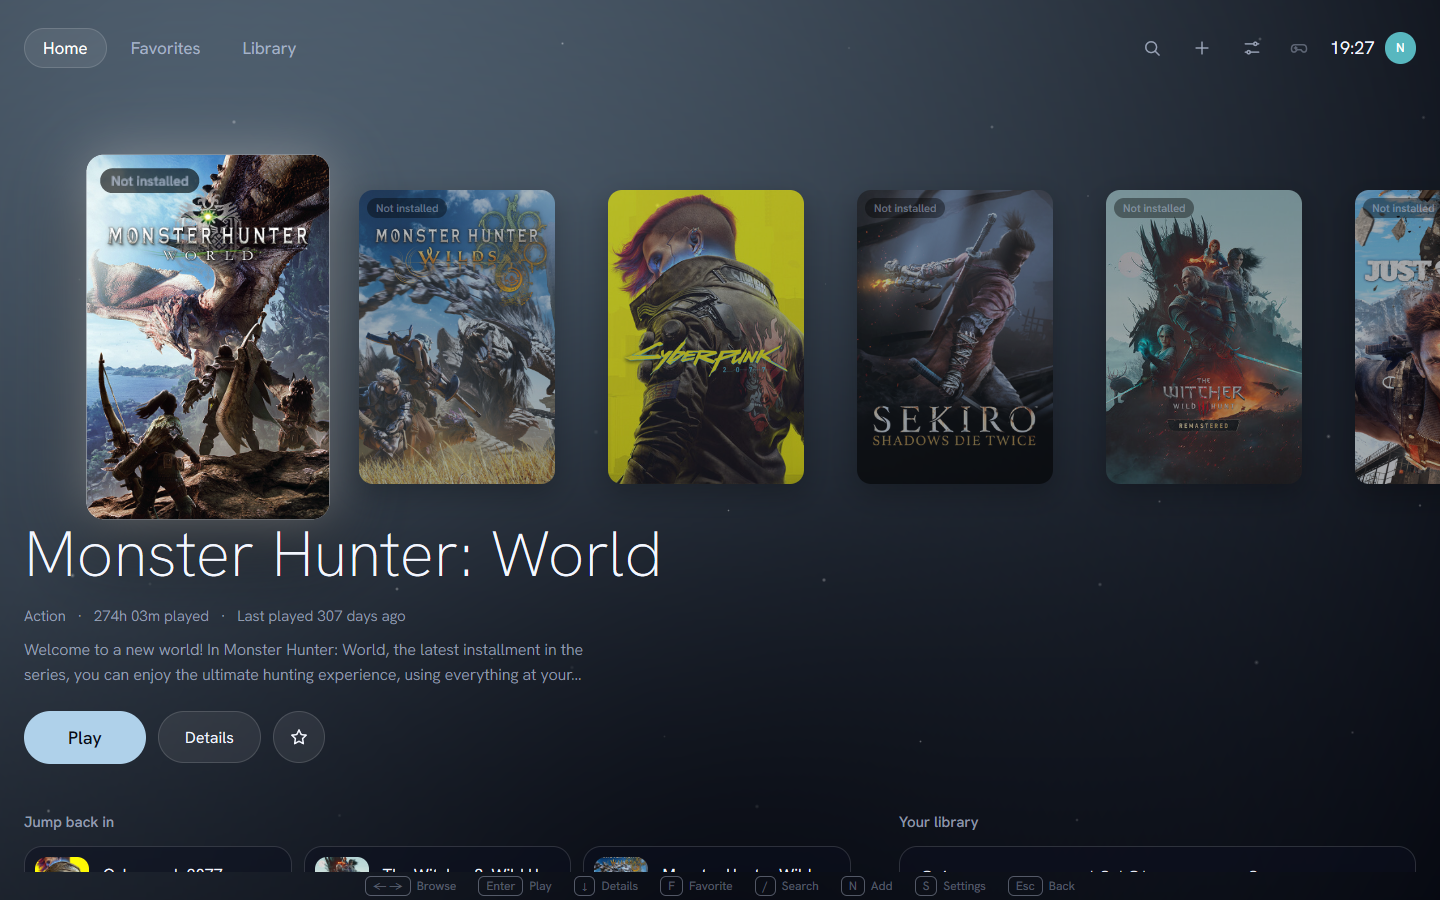
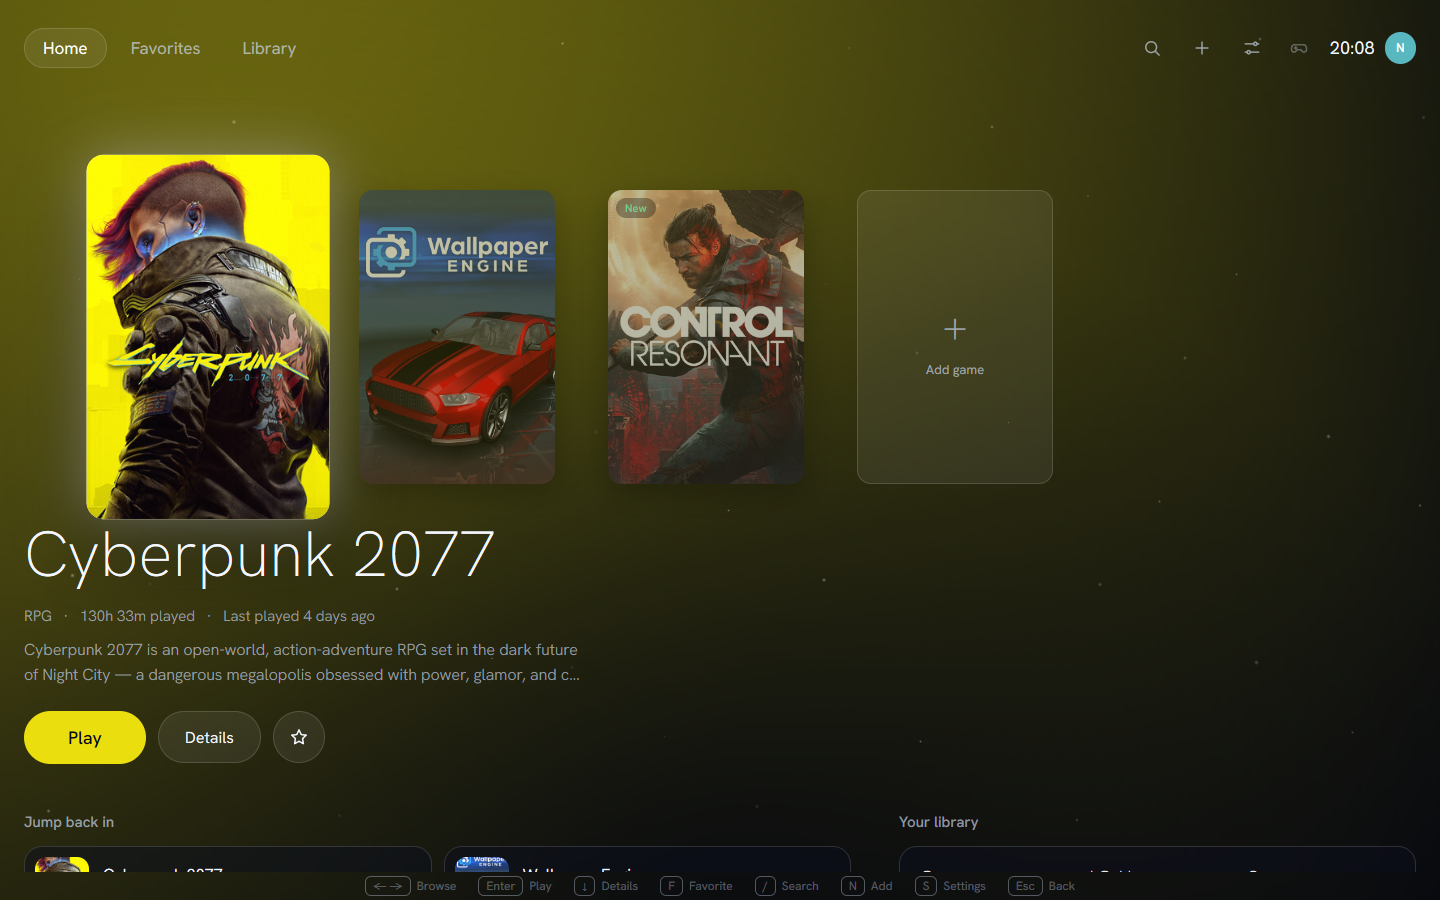
Landing page for GitHub Pages
docs/index.html: a single self-contained page in the app's own design
system (DESIGN.md tokens, Hanken Grotesk, glass on the deep ground),
with the four real product screenshots. home.png is re-rendered with
installed games only, so the hero matches the pitch.

diff --git a/docs/index.html b/docs/index.html
@@ -1,0 +1,307 @@
+<!doctype html>
+<html lang="en">
+<head>
+<meta charset="utf-8">
+<meta name="viewport" content="width=device-width,initial-scale=1">
+<title>Nova, a native Windows game launcher</title>
+<meta name="description" content="Nova lists the games installed on your machine, pulls real Steam artwork, and starts the game. Built in Go on MyGo, no web view.">
+<style>
+/* Hallmark · v2.0.0
+ * shape: try-job landing · genre: try (desktop tool) · job: visit the repo · posture: stage
+ * theme: Nova design system (DESIGN.md, by request) · surface: absolute (system glass on --deep)
+ * nav: edge-aligned, wordmark left, links and one action right · footer: colophon
+ * hero: Stage, text 4 cols, the real home screen on 8 cols
+ * signature: the launcher's own captured screens, framed in the system's glass
+ * sections: Hero · Showcase · Rows · Table · Band · Footer
+ * material: real: four product screenshots · absent: quotes, logos, metrics
+ * pre-emit critique: P4 H4 E4 S4 R4 V4 · weakest: S, a launcher landing is a known shape; led with the app's own captured screens instead of a built mock
+ * dismissed 58 · the keys table plus the band head share one 900px window; a key reference is dense by nature, every row is a fact
+ * sweep: 0 FAIL · 1 dismissed
+ * hero-review: none · finish-review: subagent · 5 findings · 5 resolved · gap: none
+ */
+:root{
+  --deep:#05070f;
+  --well:#0a0e1c;
+  --ink:#f4f7ff;
+  --ink-dim:#b9c4e2;
+  --ink-faint:#8b96b8;
+  --rule:rgba(220,230,255,.14);
+  --glass:rgba(255,255,255,.07);
+  --glass-hover:rgba(255,255,255,.14);
+  --bright:#f6f8ff;
+  --bright-ink:#080c1a;
+  --accent:#5b8dff;
+  --focus:#f4f7ff;
+  --font:"Hanken Grotesk","Segoe UI",system-ui,sans-serif;
+
+  --container:1360px;
+  --gutter:64px;
+  --space-xs:8px;
+  --space-sm:12px;
+  --space-md:16px;
+  --space-lg:24px;
+  --space-xl:40px;
+  --space-2xl:64px;
+  --space-3xl:96px;
+  --space-4xl:144px;
+  --section-a:176px;
+  --section-b:120px;
+  --section-c:144px;
+
+  --radius-frame:20px;
+  --radius-pill:999px;
+  --dur-short:220ms;
+  --dur-long:420ms;
+  --ease-out:cubic-bezier(.22,1,.36,1);
+}
+*{box-sizing:border-box}
+html,body{overflow-x:clip}
+html{scrollbar-color:var(--ink-faint) var(--deep)}
+body{
+  margin:0;
+  background:var(--deep);
+  color:var(--ink);
+  font-family:var(--font);
+  font-weight:300;
+  font-size:17px;
+  line-height:1.6;
+  -webkit-font-smoothing:antialiased;
+}
+::selection{background:var(--accent);color:var(--bright-ink)}
+h1,h2,h3{font-weight:200;text-wrap:balance}
+.row h3,.footer .wordmark,.wordmark{font-weight:400}
+p{text-wrap:pretty}
+a{color:var(--ink)}
+:focus-visible{outline:2px solid var(--focus);outline-offset:3px;border-radius:8px}
+
+.container{max-width:var(--container);margin-inline:auto;padding-inline:var(--gutter)}
+
+/* nav: edge-aligned */
+.nav{display:flex;align-items:center;justify-content:space-between;gap:var(--space-lg);
+  min-height:80px;padding-block:var(--space-md)}
+.wordmark{font-size:20px;text-decoration:none;letter-spacing:0}
+.nav-links{display:flex;align-items:center;gap:var(--space-lg)}
+.nav-links a{font-size:15px;font-weight:300;color:var(--ink-dim);text-decoration:none;white-space:nowrap}
+.nav-links a:hover{color:var(--ink)}
+.nav-links a.nav-cta{color:var(--ink);background:var(--glass);box-shadow:inset 0 0 0 1px var(--rule);padding:var(--space-xs) var(--space-lg);border-radius:var(--radius-pill)}
+.nav-links a.nav-cta:hover{transform:translateY(-1px)}
+.nav-links a.nav-cta:active,.btn:active{transform:translateY(1px)}
+
+/* buttons: one primary recipe, one glass recipe */
+.btn{display:inline-flex;align-items:center;gap:var(--space-sm);text-decoration:none;white-space:nowrap;
+  font-size:16px;border-radius:var(--radius-pill);padding:var(--space-sm) 36px;
+  transition:transform var(--dur-short) var(--ease-out),background var(--dur-short) var(--ease-out)}
+.btn.primary{background:var(--bright);color:var(--bright-ink)}
+.btn.primary:hover,.btn.primary:focus-visible{transform:scale(1.03)}
+.btn.ghost{background:var(--glass);color:var(--ink);box-shadow:inset 0 0 0 1px var(--rule)}
+.btn.ghost:hover{background:var(--glass-hover)}
+.ghost-link{font-size:16px;font-weight:400;color:var(--ink-dim);text-decoration:underline;text-underline-offset:4px}
+.ghost-link:hover{color:var(--ink)}
+
+/* hero: stage */
+.hero{min-height:calc(100svh - 80px);display:grid;align-content:center;
+  padding-block:var(--space-2xl)}
+.hero-grid{display:grid;grid-template-columns:minmax(0,4fr) minmax(0,8fr);
+  gap:var(--space-3xl);align-items:center}
+.hero .slot img{display:block;width:100%;height:auto}
+.hero h1{margin:0 0 var(--space-lg);font-size:clamp(44px,6vw,84px);line-height:1.05;letter-spacing:-.01em;max-width:12ch}
+.hero .lead{margin:0 0 var(--space-xl);font-size:19px;color:var(--ink-dim);max-width:44ch}
+.hero-actions{display:flex;gap:var(--space-md);flex-wrap:wrap;align-items:center}
+.slot{margin:0;position:relative;border-radius:var(--radius-frame);overflow:hidden;
+  background:var(--well)}
+.slot img{display:block;width:100%;height:auto}
+
+/* showcase */
+.screens{padding-block:var(--section-c) 0}
+.screens h2,.how h2,.keys h2{margin:0 0 var(--space-md);font-size:clamp(34px,3.4vw,48px);letter-spacing:-.01em}
+.screens .secline{margin:0 0 var(--space-2xl);color:var(--ink-dim);max-width:52ch}
+.screens .lead-shot{margin:var(--space-lg) 0 var(--space-md)}
+.screens .pair{display:grid;grid-template-columns:minmax(0,7fr) minmax(0,5fr);gap:var(--space-lg)}
+figure{margin:0}
+figcaption{margin-top:var(--space-sm);font-size:14px;font-weight:300;color:var(--ink-dim);
+  padding-inline:var(--space-sm) var(--space-sm) var(--space-xs)}
+.screens .lead-shot,.pair .slot{background:transparent;border-radius:0;overflow:visible}
+.screens .lead-shot::after,.pair .slot::after{display:none}
+.screens .lead-shot img,.pair .slot img{border-radius:var(--radius-frame);box-shadow:inset 0 0 0 1px var(--rule)}
+.slot{position:relative}
+.slot::after{content:"";position:absolute;inset:0;border-radius:var(--radius-frame);
+  box-shadow:inset 0 0 0 1px var(--rule);pointer-events:none}
+
+/* rows */
+section{scroll-margin-top:var(--space-2xl)}
+.how{padding-block:var(--section-a)}
+.how-grid{display:grid;grid-template-columns:minmax(0,4fr) minmax(0,8fr);gap:var(--space-2xl);align-items:start}
+.how-grid h2{margin-bottom:0}
+.rows{border-top:1px solid var(--rule)}
+.row{display:grid;grid-template-columns:minmax(0,5fr) minmax(0,7fr);gap:var(--space-lg);
+  padding-block:var(--space-lg);border-bottom:1px solid var(--rule)}
+.row h3{margin:0;font-size:22px}
+.row p{margin:0;color:var(--ink-dim);max-width:52ch}
+
+/* keys table */
+.keys{padding-block:var(--section-b)}
+.keys .secline{margin:0 0 var(--space-2xl);color:var(--ink-dim)}
+.keytable{width:100%;border-collapse:collapse;font-variant-numeric:tabular-nums}
+.keytable th{font-size:14px;font-weight:400;color:var(--ink-dim);text-align:left;
+  padding:0 var(--space-md) var(--space-sm) 0;border-bottom:1px solid var(--rule)}
+.keytable td{padding:var(--space-md) var(--space-md) var(--space-md) 0;
+  border-bottom:1px solid var(--rule);font-size:16px}
+.keytable td:first-child{white-space:nowrap}
+.keytable .what{color:var(--ink-dim)}
+kbd{font:inherit;font-weight:400;font-size:14px;color:var(--ink);
+  background:var(--glass);box-shadow:inset 0 0 0 1px var(--rule);
+  border-radius:6px;padding:2px var(--space-xs);margin-right:var(--space-xs)}
+
+/* band */
+.band{background:var(--well);border-block:1px solid var(--rule);padding-block:var(--space-3xl);color:var(--ink)}
+.band-inner{display:grid;grid-template-columns:minmax(0,6fr) minmax(0,6fr);gap:var(--space-2xl);align-items:center}
+.band h2{margin:0 0 var(--space-md);font-size:clamp(38px,4vw,56px);letter-spacing:-.01em}
+.band p{margin:0;color:var(--ink-dim);max-width:44ch}
+.band-actions{display:flex;flex-direction:column;gap:var(--space-md);align-items:flex-start}
+.band .small{margin:0;font-size:14px;color:var(--ink-faint)}
+.band .small a{color:var(--ink-dim)}
+
+/* footer */
+.footer{padding-block:var(--space-2xl)}
+.footer-grid{display:grid;grid-template-columns:minmax(0,7fr) minmax(0,5fr);gap:var(--space-2xl);align-items:start}
+.footer .wordmark{font-size:24px}.footer-note{margin:var(--space-md) 0 0;color:var(--ink-dim);max-width:48ch}
+.footer-links{display:grid;gap:var(--space-xs);justify-items:start}
+.footer-links a{font-size:15px;font-weight:400;color:var(--ink-dim);text-decoration:none}
+.footer-links a:hover{color:var(--ink);text-decoration:underline}
+.footer .legal{margin-top:var(--space-2xl);padding-top:var(--space-lg);border-top:1px solid var(--rule);
+  font-size:14px;color:var(--ink-faint)}
+
+@media (max-width:60rem){
+  .hero-grid,.screens .pair,.how-grid,.band-inner,.footer-grid{grid-template-columns:minmax(0,1fr)}
+  .hero{min-height:0}
+  .how-grid{gap:var(--space-xl)}
+  .row{grid-template-columns:minmax(0,1fr);gap:var(--space-xs)}
+  .nav{flex-wrap:wrap}
+  .nav-links{gap:var(--space-md)}
+  .nav-links a:not(.nav-cta){display:none}
+  .container{padding-inline:var(--space-lg)}
+}
+@media (prefers-reduced-motion:reduce){
+  *{transition-duration:.01ms!important;animation-duration:.01ms!important}
+}
+</style>
+</head>
+<body>
+
+<header class="container nav">
+  <a class="wordmark" href="#top">Nova</a>
+  <nav class="nav-links" aria-label="Page">
+    <a href="#screens">Screens</a>
+    <a href="#how">How it works</a>
+    <a class="nav-cta" href="https://github.com/yaffalhakim1/nova">Get it on GitHub</a>
+  </nav>
+</header>
+
+<main id="top">
+  <section class="hero container" aria-label="Nova">
+    <div class="hero-grid">
+      <div>
+        <h1>Your games, one console away</h1>
+        <p class="lead">Nova lists what is installed and starts the game.</p>
+        <div class="hero-actions">
+          <a class="btn primary" href="https://github.com/yaffalhakim1/nova">Get it on GitHub</a>
+          <a class="ghost-link" href="#screens">See the screens</a>
+        </div>
+      </div>
+      <figure class="slot">
+        <img src="screenshots/home.png" alt="The Nova home screen: a carousel of game covers with Cyberpunk 2077 selected" width="1440" height="900" fetchpriority="high">
+      </figure>
+    </div>
+  </section>
+
+  <section class="screens container" id="screens">
+    <h2>Every screen, one look</h2>
+    <p class="secline">The window takes its colour from the game you select, and the artwork comes from Steam, cached on disk.</p>
+    <figure class="lead-shot slot">
+      <img src="screenshots/detail.png" alt="A game page with full-bleed artwork, achievements, play time and screenshots" width="1440" height="900" loading="lazy">
+      <figcaption>The game page: store artwork fills the screen, the cards carry achievements, play time and info.</figcaption>
+    </figure>
+    <div class="pair">
+      <figure class="slot">
+        <img src="screenshots/library.png" alt="The library grid with genre chips and a sort select" width="1440" height="900" loading="lazy">
+        <figcaption>The library grid, filtered by genre chips and sorted any way.</figcaption>
+      </figure>
+      <figure class="slot">
+        <img src="screenshots/trophies.png" alt="The trophies dialog listing achievements with rarity percentages" width="1440" height="900" loading="lazy" style="aspect-ratio:16/7;object-fit:cover;object-position:50% 78%">
+        <figcaption>Trophies with real rarity, worked out from the percentages Steam publishes.</figcaption>
+      </figure>
+    </div>
+  </section>
+
+  <section class="how container" id="how">
+    <div class="how-grid">
+      <h2>What happens under the hood</h2>
+      <div class="rows">
+        <div class="row">
+          <h3>Finds your Steam games</h3>
+          <p>Reads every library’s appmanifest files and skips the tools.</p>
+        </div>
+        <div class="row">
+          <h3>Adds the rest by hand</h3>
+          <p>Point it at a folder. The relative path survives a move.</p>
+        </div>
+        <div class="row">
+          <h3>Launches cleanly</h3>
+          <p>From the game’s own folder, with no console window.</p>
+        </div>
+        <div class="row">
+          <h3>Keeps honest play time</h3>
+          <p>Imports what Steam recorded and merges as max, so nothing counts twice.</p>
+        </div>
+      </div>
+    </div>
+  </section>
+
+  <section class="keys container" id="keys">
+    <h2>Keys, not menus</h2>
+    <p class="secline">Runs from the keyboard; a gamepad works too.</p>
+    <table class="keytable">
+      <thead>
+        <tr><th scope="col">Key</th><th scope="col">What it does</th></tr>
+      </thead>
+      <tbody>
+        <tr><td><kbd>←</kbd><kbd>→</kbd></td><td class="what">Choose a game</td></tr>
+        <tr><td><kbd>Enter</kbd></td><td class="what">Play it</td></tr>
+        <tr><td><kbd>Esc</kbd></td><td class="what">Go back</td></tr>
+        <tr><td><kbd>/</kbd></td><td class="what">Search</td></tr>
+        <tr><td><kbd>1</kbd><kbd>2</kbd><kbd>3</kbd></td><td class="what">Home, Favorites, Library</td></tr>
+      </tbody>
+    </table>
+  </section>
+
+  <section class="band" aria-label="Get Nova">
+    <div class="container band-inner">
+      <div>
+        <h2>Get Nova</h2>
+        <p>Windows 10 or newer, built from source with Go. Clone it, build it, point it at your games.</p>
+      </div>
+      <div class="band-actions">
+        <a class="btn primary" href="https://github.com/yaffalhakim1/nova">View the source on GitHub</a>
+        <p class="small">Built on <a href="https://github.com/egoist/mygo">MyGo</a>. The interface font is Hanken Grotesk, under the SIL Open Font License.</p>
+      </div>
+    </div>
+  </section>
+</main>
+
+<footer class="footer container">
+  <div class="footer-grid">
+    <div>
+      <span class="wordmark">Nova</span>
+      <p class="footer-note">A personal project. Game names, artwork and descriptions belong to the games they describe.</p>
+    </div>
+    <nav class="footer-links" aria-label="Footer">
+      <a href="https://github.com/yaffalhakim1/nova">Source</a>
+      <a href="https://github.com/egoist/mygo">MyGo</a>
+      <a href="https://github.com/yafit/nova#license">License notes</a>
+    </nav>
+  </div>
+  <p class="legal">Nova runs on this machine and reads Steam’s public store data. It sends your Steam Web API key to Steam and nowhere else.</p>
+</footer>
+
+</body>
+</html>
